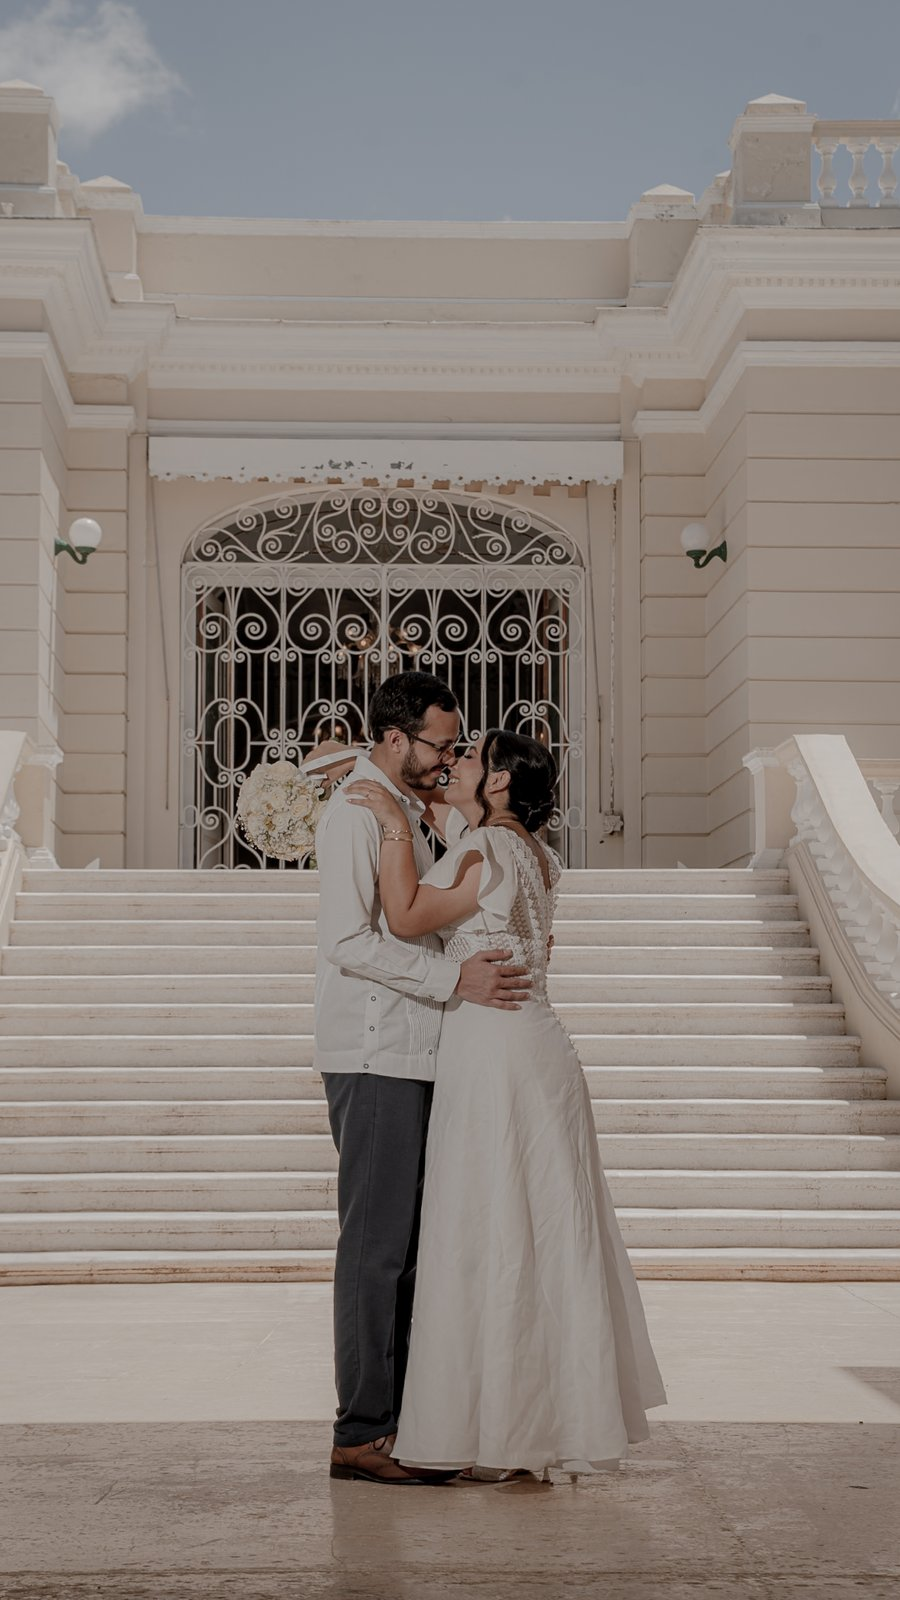
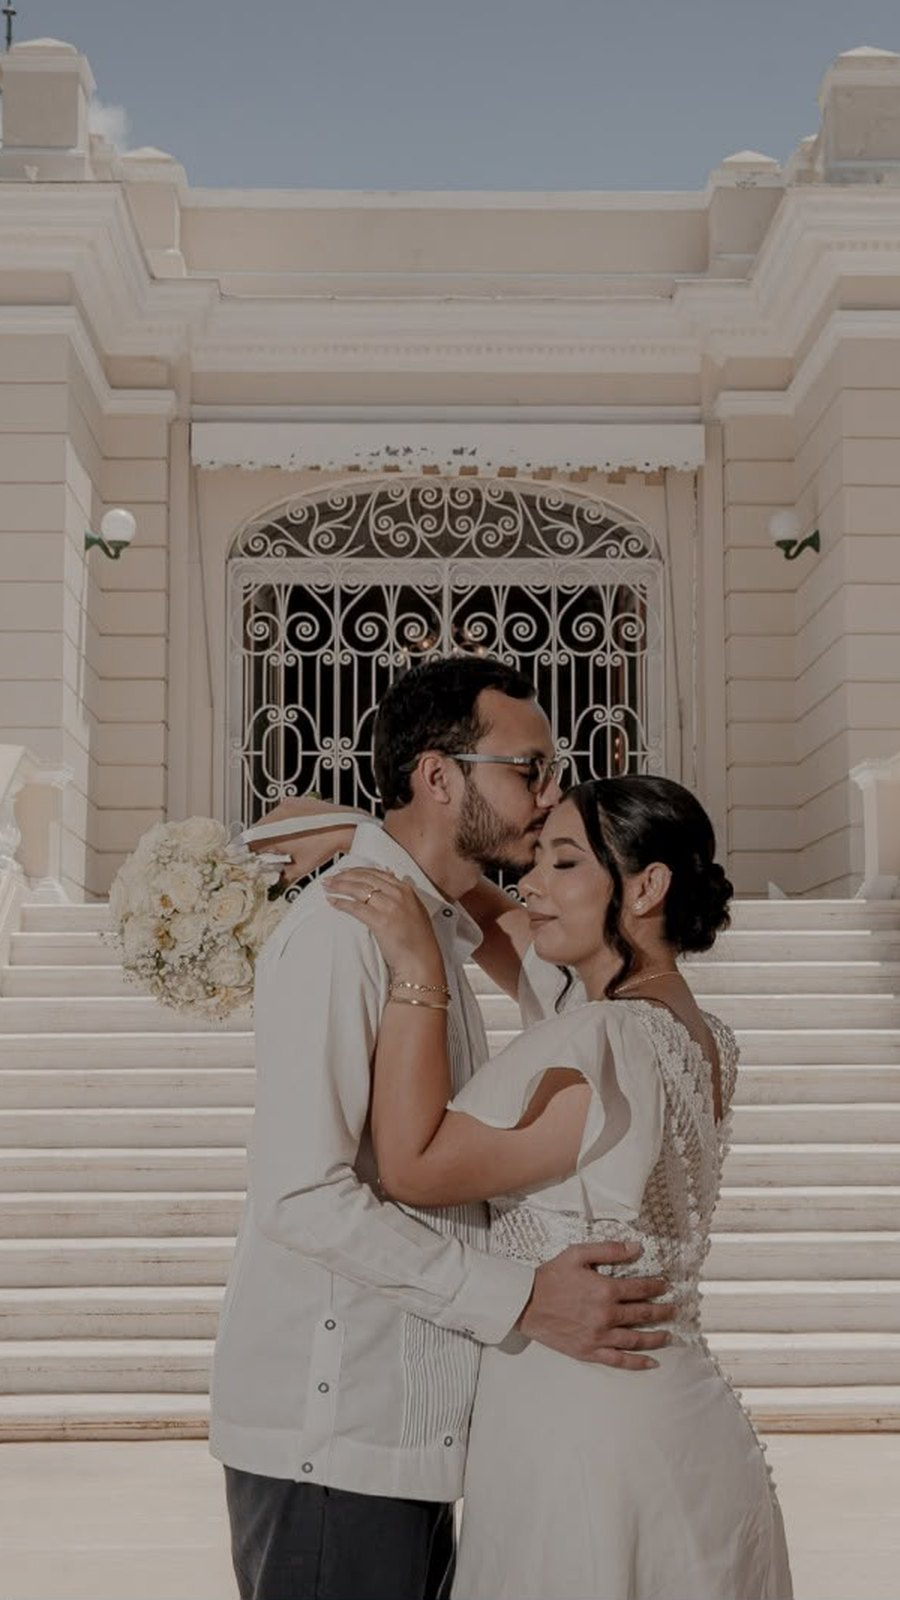
feat: la portada se disuelve hacia la invitacion y foto nueva del cliente
- Foto de portada: la que mando el cliente (fachada completa de la Quinta),
  recortada de 3:2 a vertical centrando en los novios.
- El paso a la primera tarjeta era un corte: la portada terminaba en marfil
  solido y debajo aparecia de golpe el marmol. Ahora la foto se funde con
  una mascara hacia abajo y deja ver el marmol del fondo, y con el scroll la
  portada entera se apaga y sube mientras la invitacion entra por debajo.
  La mascara va en la capa de la foto, no en la seccion: en la seccion
  recortaria tambien el velo y los nombres.
- Fuera la tarjeta de ninos bienvenidos, como pidio el cliente.

diff --git a/src/app/_components/cards/CoverCard.tsx b/src/app/_components/cards/CoverCard.tsx
@@ -1,45 +1,79 @@
 "use client";
 
-import { motion } from "framer-motion";
+import { useRef } from "react";
+import { motion, useScroll, useTransform } from "framer-motion";
 import { DIA, MES, ANIO } from "../../_data/fecha";
 
 /**
  * Portada a pantalla completa con la foto que eligio el cliente, al estilo de
- * la invitacion que mando de referencia: foto de fondo, velo degradado hacia
- * el papel y los nombres en caligrafia encima.
+ * la invitacion que mando de referencia: foto de fondo, velo degradado y los
+ * nombres en caligrafia encima.
+ *
+ * El paso a la primera tarjeta no es un corte: la foto se disuelve con una
+ * mascara hacia abajo, que deja ver el marmol del fondo (es una capa fija del
+ * body), y ademas al hacer scroll la portada entera se apaga y sube un poco
+ * mientras la invitacion entra por debajo.
  */
+
+/* La mascara va en la capa de la FOTO, no en la seccion: si se aplicara a la
+   seccion recortaria tambien el velo y los nombres. */
+const MASCARA =
+  "linear-gradient(to bottom, #000 0%, #000 56%, rgba(0,0,0,.86) 72%, rgba(0,0,0,.45) 87%, rgba(0,0,0,0) 100%)";
+
 export default function CoverCard() {
+  const seccion = useRef<HTMLElement>(null);
+  const { scrollYProgress } = useScroll({
+    target: seccion,
+    offset: ["start start", "end start"],
+  });
+
+  // la foto se va con el scroll; el texto se desvanece antes que ella
+  const fotoOpacidad = useTransform(scrollYProgress, [0, 0.78], [1, 0]);
+  const fotoY = useTransform(scrollYProgress, [0, 1], ["0%", "11%"]);
+  const fotoEscala = useTransform(scrollYProgress, [0, 1], [1, 1.06]);
+  const textoOpacidad = useTransform(scrollYProgress, [0, 0.42], [1, 0]);
+  const textoY = useTransform(scrollYProgress, [0, 0.6], [0, -38]);
+
   return (
     <section
+      ref={seccion}
       className="relative w-full"
       style={{ height: "100dvh", overflow: "hidden" }}
     >
-      <div
+      <motion.div
         className="absolute inset-0"
         style={{
           backgroundImage: "url('/portada.jpg')",
           backgroundSize: "cover",
-          backgroundPosition: "center 34%",
+          backgroundPosition: "center 42%",
+          maskImage: MASCARA,
+          WebkitMaskImage: MASCARA,
+          opacity: fotoOpacidad,
+          y: fotoY,
+          scale: fotoEscala,
         }}
       />
 
-      {/* Velo: arriba casi limpio para que se vea la foto, abajo se funde con
-          el marfil del papel para que la portada entregue a la primera tarjeta. */}
-      <div
+      {/* Velo: arriba casi limpio para que se vea la foto; abajo se apaga junto
+          con ella y entrega el marmol del fondo sin ningun borde duro. */}
+      <motion.div
         className="absolute inset-0"
         style={{
           background:
             "linear-gradient(to bottom," +
             "rgba(22,50,92,0.10) 0%," +
             "rgba(22,50,92,0.05) 34%," +
-            "rgba(22,50,92,0.40) 64%," +
-            "rgba(22,50,92,0.82) 84%," +
-            "rgba(248,244,236,0.96) 97%," +
-            "#F8F4EC 100%)",
+            "rgba(22,50,92,0.40) 62%," +
+            "rgba(22,50,92,0.62) 78%," +
+            "rgba(22,50,92,0.22) 92%," +
+            "rgba(22,50,92,0) 100%)",
+          opacity: fotoOpacidad,
         }}
       />
 
-      <div className="absolute inset-x-0 bottom-0 px-7 pb-[6.5vh] text-center">
+      <motion.div
+        className="absolute inset-x-0 bottom-0 px-7 pb-[11vh] text-center"
+        style={{ opacity: textoOpacidad, y: textoY }}>
         <motion.p
           className="font-sans-label"
           style={{ color: "#F7E7CE", fontSize: "0.74rem", fontWeight: 600, letterSpacing: "0.34em" }}
@@ -122,7 +156,7 @@ export default function CoverCard() {
         >
           M&eacute;rida, Yucat&aacute;n
         </motion.p>
-      </div>
+      </motion.div>
     </section>
   );
 }

diff --git a/src/app/_components/InvitationClient.tsx b/src/app/_components/InvitationClient.tsx
@@ -16,7 +16,6 @@ import ItineraryCard from "./cards/ItineraryCard";
 import GalleryCard from "./cards/GalleryCard";
 import WeatherCard from "./cards/WeatherCard";
 import DressCodeCard from "./cards/DressCodeCard";
-import AdultsCard from "./cards/AdultsCard";
 import NotesCard from "./cards/NotesCard";
 import HotelsCard from "./cards/HotelsCard";
 import GiftsCard from "./cards/GiftsCard";
@@ -61,7 +60,6 @@ export default function InvitationClient() {
           <GalleryCard />
           <WeatherCard />
           <DressCodeCard />
-          <AdultsCard />
           <NotesCard />
           <HotelsCard />
           <GiftsCard />
